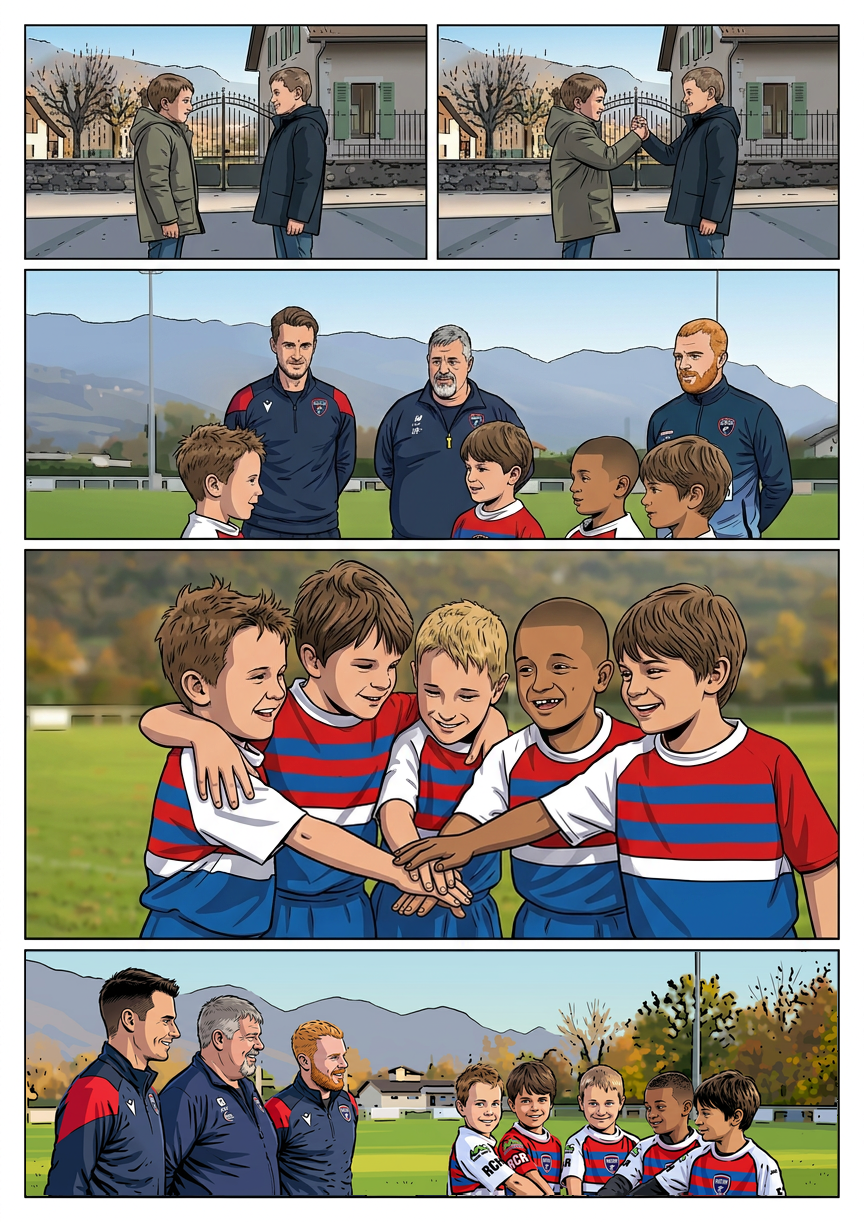
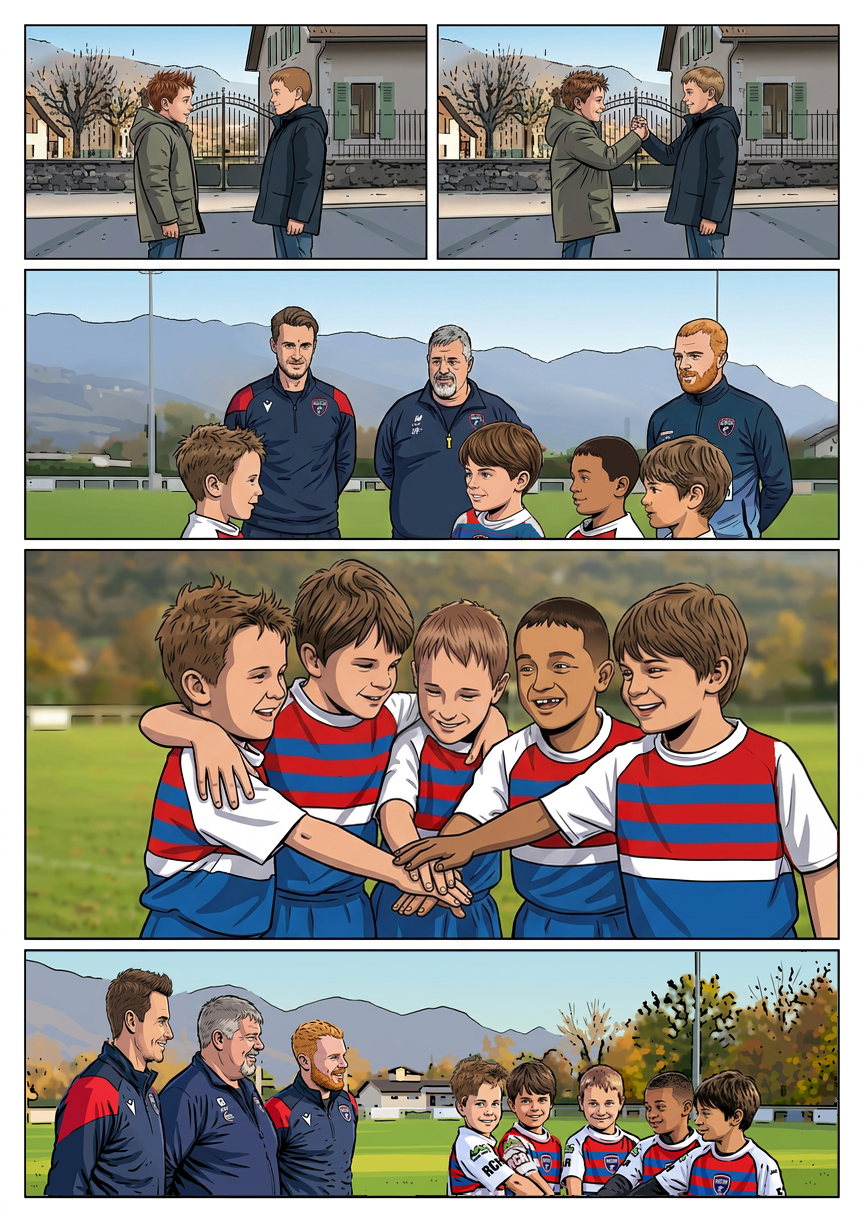
Reprendre les cinq vignettes de la planche 16 selon la couverture

diff --git a/Planches-dessin/validation/REVUE-COUVERTURE.md b/Planches-dessin/validation/REVUE-COUVERTURE.md
@@ -21,13 +21,13 @@ Les huit recadrages exacts sont dans `revue-couverture/<Prénom>-couverture.png`
 |---|---:|
 | Planches vues en ensemble | 30 |
 | Vignettes réellement inventoriées | 153 |
-| Premières reprises intégrées, encore à relire | 79 |
+| Premières reprises intégrées, encore à relire | 84 |
 | Corrections seulement partielles, à poursuivre | 0 |
 | Contrôles sans retouche, encore à relire | 1 |
-| Autres vignettes restant à contrôler individuellement | 73 |
+| Autres vignettes restant à contrôler individuellement | 68 |
 | Validations définitives de style et ressemblance | **0** |
 
-Les 79 vignettes ayant reçu une intervention ne sont pas 79 vignettes définitivement conformes. Le reste de la revue demandée n’est pas terminé. Le manifeste `REVUE-COUVERTURE.json` conserve une entrée et un état explicite pour chacune des 153 vignettes.
+Les 84 vignettes ayant reçu une intervention ne sont pas 84 vignettes définitivement conformes. Le reste de la revue demandée n’est pas terminé. Le manifeste `REVUE-COUVERTURE.json` conserve une entrée et un état explicite pour chacune des 153 vignettes.
 
 ## Première livraison : 26/3 et 26/6
 
@@ -295,6 +295,26 @@ Preuves : `revue-couverture/lot-q/15-AVANT-APRES.jpg` et cinq masques. Aucun can
 
 **Réserves transversales :** homogénéité de teinte des cheveux châtains de Léon sous la lumière chaude (excès cuivré de 15/3 atténué localement), âge/détail des visages par rapport aux corps, petits raccords de fond et de col, degré de tendresse du sourire de Flavien et lecture de ses deux mains sur les épaules en 15/4. Les deux chocolats restent visibles en 15/2 ; aucune mère/sœur n'est ajoutée, puisqu'elles sont hors champ selon le scénario. Aucun texte, bulle ni onomatopée ajouté. Il reste 73 cases à examiner individuellement, puis la relecture de continuité de toute la série.
 
+## Dix-huitième livraison : les cinq vignettes de la planche 16
+
+Cinq premières interventions, pas cinq validations définitives. Le scénario et les cinq sources réalistes ont été comparés : deux scènes scolaires civiles, puis trois scènes au stade. La couverture reste seule autorité des identités/du dessin, pas la couleur erronée des cheveux ou des manches dans les sources.
+
+**16/1 :** Deux portraits isolés intégrés : Léon à gauche en manteau olive, pics châtains et expression hésitante d'excuse ; Ayden à droite en manteau marine, courte frange châtain clair et accueil souriant. Le candidat de case entière déformait fortement les proportions : rejeté. Manteaux, mains, jeans et cour conservés hors masques ; Baptiste reste hors champ.
+
+**16/2 :** Léon et Ayden se tapent dans la main : portraits seuls du candidat conservant la pose, pics châtains pour Léon et courte frange châtain clair pour Ayden. Les deux manteaux civils, bras levés, main en contact et cour d'école restent d'origine hors masques.
+
+**16/3 :** Quatre enfants devant les trois coachs, sans Ayden dans ce cadrage : Léon à gauche face à Lyssandro/Nolann/Milo. Portraits spécifiques de Lyssandro et Nolann ; ce dernier retrouve la très courte frange brun foncé et le teint mat. Milo conserve sa frange pleine et son visage de profil, avec carnation éclaircie localement. Maillot rouge uni de Lyssandro rapproché du modèle à rayures bleues et manches courtes blanches. Léon déjà en pics et les trois coachs déjà identifiables conservés à cette passe. Candidat complet au cadrage/proportions erronés rejeté.
+
+**16/4 :** Cinq enfants réunis : Léon, Lyssandro, Ayden, Nolann, Milo. Têtes reprises localement : pics, frange latérale, courte frange châtain clair non blonde, très courte frange brune/teint mat et frange pleine respectives. Manches courtes extérieures rouges de Lyssandro et Milo corrigées en blanc. Bras de Lyssandro autour de Léon et empilement des mains d'origine préservés, sans importer de nouveau geste.
+
+**16/5 :** Trois coachs et cinq enfants conservés, mêmes positions et mains. Portrait spécifique de Flavien brun à légère pilosité ; cheveux en pics de Léon repris par import local de cheveux, teinte trop blonde/grise d'Ayden rapprochée du châtain clair, carnation de Nolann et frange châtaine de Milo ajustées localement. Manche courte rouge de Lyssandro blanchie. Julien, Kilian, visage de Lyssandro et visages des autres enfants hors zones de palette conservés à cette passe ; pas de nouveau personnage.
+
+Preuves : `revue-couverture/lot-r/16-AVANT-APRES.jpg` et cinq masques. Aucun candidat complet intégré. Deux cadrages déformés (16/1 et 16/3) rejetés ; cinq portraits isolés réellement produits et utilisés (Léon/Ayden 16/1, Lyssandro/Nolann 16/3, Flavien 16/5). Le premier montage de Lyssandro conservait un morceau de l'ancienne mâchoire : recalage vertical et raccord du col repris. Les fragments de l'ancienne coiffure/du nez de Flavien ont nécessité un périmètre élargi en 16/5. Les portraits des trois coachs de 16/3, déjà identifiables, sont délibérément conservés plutôt que remplacés par le candidat au mauvais cadrage.
+
+Le maillot uni de Lyssandro en 16/3 est corrigé localement (bande bleue et manches blanches), pas remplacé par un corps déplacé. L'empilement central des mains de 16/4 n'est pas redessiné. En 16/5, la correction de Léon porte sur les cheveux seuls et celle d'Ayden sur la palette ; il ne s'agit pas de nouveaux portraits complets. Les trois demandes de portraits non produites après la limite de dix générations du tour ne sont pas comptées comme des réalisations.
+
+**Réserves transversales :** âge apparent des nouveaux profils et détail portraits/corps, cohérence des franges d'Ayden entre 16/1–2 et 16/4–5, rondeur/frange de Milo en 16/3/5, raccord des cheveux seuls de Léon 16/5, col et bande du maillot de Lyssandro en 16/3, petits raccords de fond autour de Flavien 16/5, lisibilité des marquages après blanchiment de manche et correspondance visage/bras de Nolann. Rien ici ne vaut une validation définitive de ces raccords. Aucun dialogue/bulle/onomatopée ajouté. Il reste 68 cases à examiner individuellement, puis la relecture de continuité des 153 cases.
+
 ## Contrôles techniques et audits historiques
 
 `outils/retouche/verifier_revue_couverture.py` compare les 31 PNG au début de la revue : couverture inchangée, dimensions, empreintes, absence de modification des fichiers non concernés et invariance des pixels hors masques. Il contrôle également la cohérence des états et du bilan. **Il ne mesure pas la ressemblance ou la qualité du dessin.**
@@ -303,7 +323,7 @@ Les vérificateurs des audits 13–22, comme ceux de 23–30, s’appliquent dé
 
 ## Suite obligatoire
 
-Contrôler individuellement les **73 autres vignettes**, terminer **14/2**, puis relire les premières reprises, notamment les six cases de la planche 4 et les réserves de scénario. Vérifier systématiquement chaque occurrence de Nolann et des sept autres personnages, ainsi que décors et encrage : la revue ne peut pas se limiter aux couleurs de peau/cheveux.
+Contrôler individuellement les **68 autres vignettes**, terminer **14/2**, puis relire les premières reprises, notamment les six cases de la planche 4 et les réserves de scénario. Vérifier systématiquement chaque occurrence de Nolann et des sept autres personnages, ainsi que décors et encrage : la revue ne peut pas se limiter aux couleurs de peau/cheveux.
 
 Procédure : identification au scénario → comparaison aux personnages de couverture → comparaison à la planche réaliste → correction locale → relecture en contexte de page. Les raccords cou/cheveux/mains et les tenues restent à contrôler. Aucun candidat simplement généré n’est automatiquement validé.
 

diff --git a/Planches-dessin/SUIVI-STYLE.md b/Planches-dessin/SUIVI-STYLE.md
@@ -2,7 +2,7 @@
 
 **La couverture `00-couverture-marvel.png` est désormais la seule référence de style et d’identité.** La décision utilisateur remplace la priorité V2 décrite dans l’historique ci-dessous. La couverture reste inchangée.
 
-Suivi actuel : [`validation/REVUE-COUVERTURE.md`](validation/REVUE-COUVERTURE.md) et son manifeste JSON : 153 vignettes inventoriées, 79 premières reprises, 1 contrôle sans retouche, 0 correction partielle, 73 autres contrôles individuels à faire, aucune validation définitive. Les anciennes approbations ne valent pas conformité au nouveau référentiel.
+Suivi actuel : [`validation/REVUE-COUVERTURE.md`](validation/REVUE-COUVERTURE.md) et son manifeste JSON : 153 vignettes inventoriées, 84 premières reprises, 1 contrôle sans retouche, 0 correction partielle, 68 autres contrôles individuels à faire, aucune validation définitive. Les anciennes approbations ne valent pas conformité au nouveau référentiel.
 
 ---
 
